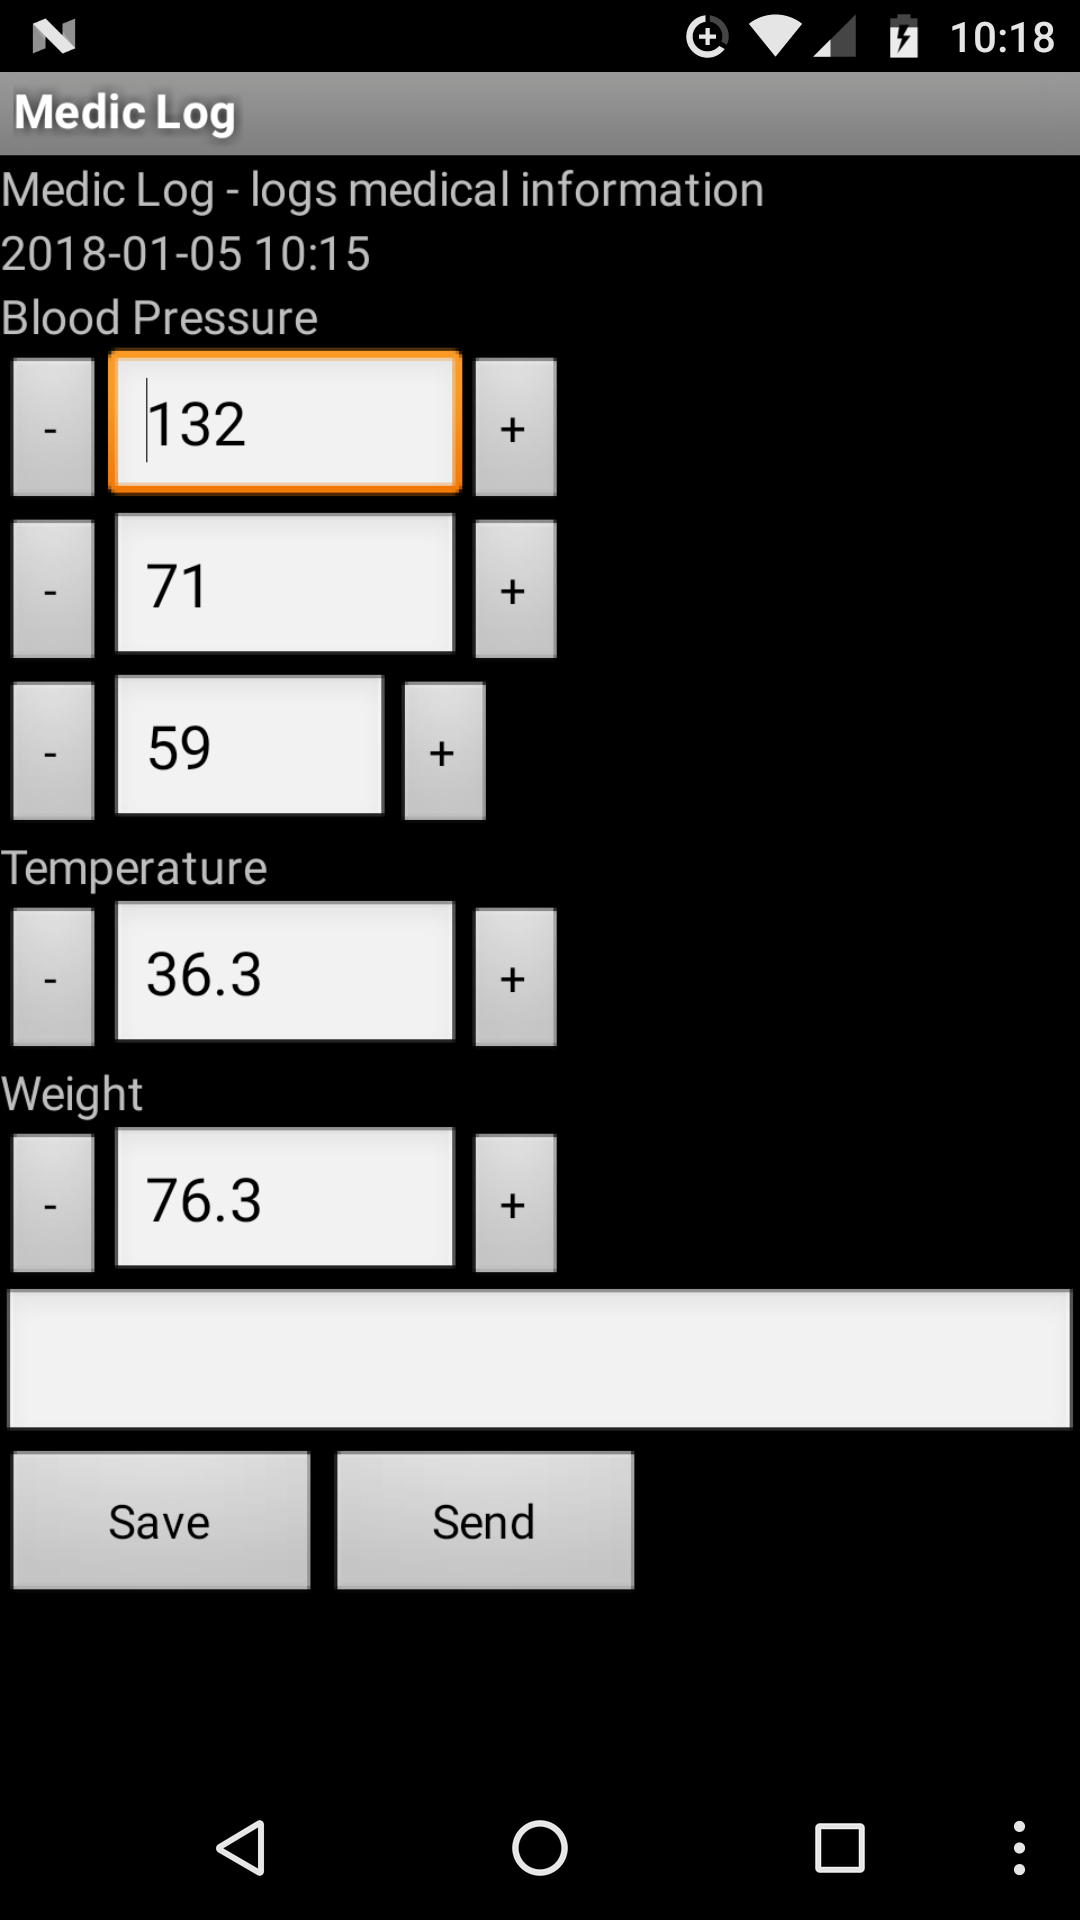
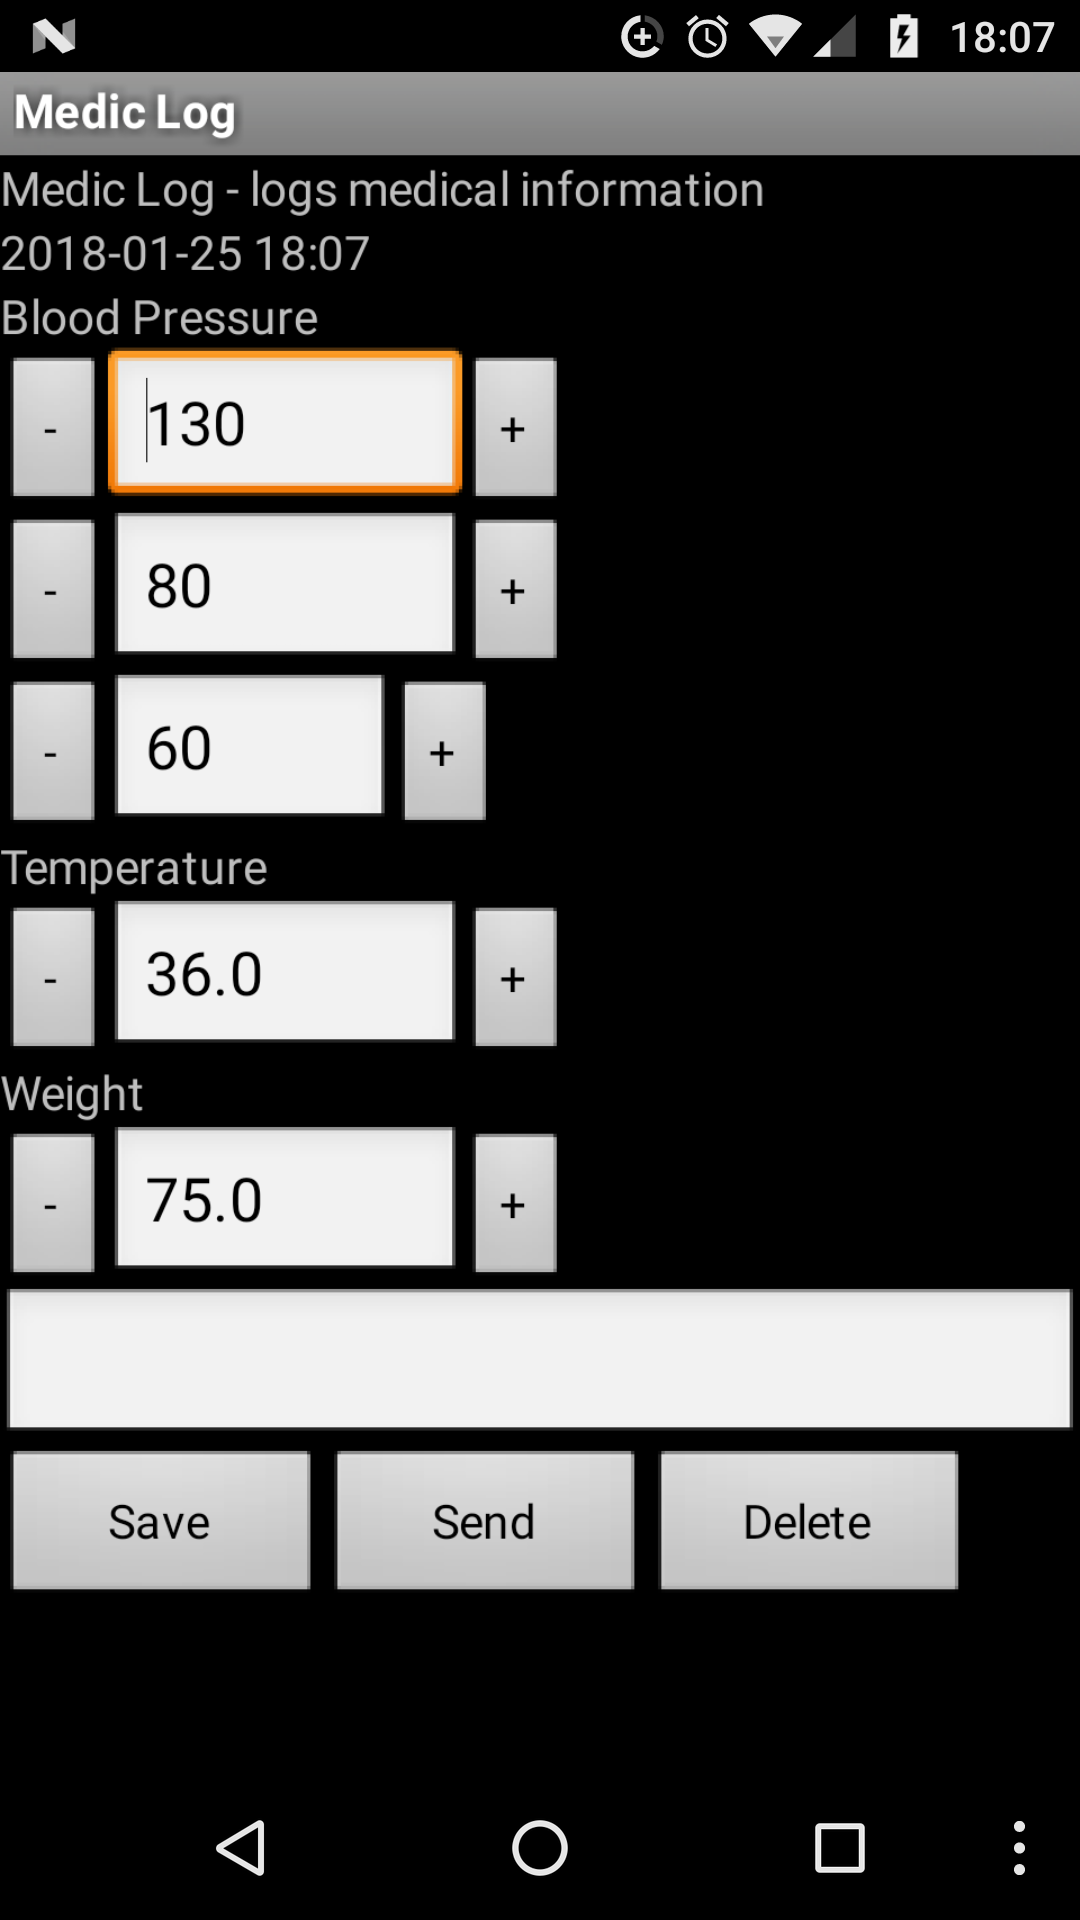
Delete button, small fixes

diff --git a/src/main/java/org/paladyn/mediclog/MedicLog.java b/src/main/java/org/paladyn/mediclog/MedicLog.java
@@ -11,6 +11,8 @@ import java.io.BufferedReader;
 import java.io.BufferedWriter;
 import java.text.SimpleDateFormat;
 import java.util.Calendar;
+import java.util.TimeZone;
+import java.util.zip.DataFormatException;
 
 import android.app.Activity;
 import android.os.Bundle;
@@ -31,6 +33,9 @@ import android.net.Uri;
 
 
 public class MedicLog extends Activity {
+
+   public int numRecsReadFromFile=0;
+   public int numRecsAppendedToFile=0;
 
     @Override
     public void onCreate(Bundle savedInstanceState) {
@@ -66,11 +71,24 @@ public class MedicLog extends Activity {
 	               }
 	     }
 
+	private void createLog(File file) {
+		try {
+                FileOutputStream os = new FileOutputStream(file);
+		BufferedWriter fbw = new BufferedWriter(new OutputStreamWriter(os));
+		fbw.write("MedicLog 1.0,Date time,Systolic,Diastolic,Heart rate,Temperature,Weight,Comment");
+		fbw.newLine();
+		fbw.flush();
+		fbw.close();
+                        if (BuildConfig.DEBUG) {
+	                   Log.d("mediclog","Log file created "+file.getName());
+	                   }
+		} catch (IOException ioe) {
+		       ioe.printStackTrace();
+	        }	       
+        }
 
 
-    @Override
-    public void onStart() {
-        super.onStart();
+	 private void readLog() throws DataFormatException {
 
 //   Read in existing log entries until end of file
         FileInputStream is;
@@ -82,24 +100,43 @@ public class MedicLog extends Activity {
 		try {
 		is = new FileInputStream(file);
 		reader = new BufferedReader(new InputStreamReader(is));
-		String line = reader.readLine();
+		String recordFormat;
 		String lastline = null;
+		// First line should be the header
+		String header = reader.readLine();
+		String[] hvals = header.split(",");
+                if ( ! hvals[0].equals("MedicLog 1.0")) {
+//			throw new DataFormatException("MedicLog -Unknown format type *"+hvals[0]+"*");
+			Log.d("mediclog","Unknown format type "+hvals[0]);
+		}
+		String line = reader.readLine();
 		while (line != null) {
 			lastline = line;
+			numRecsReadFromFile = numRecsReadFromFile + 1;
+                        if (BuildConfig.DEBUG) {
+	                   Log.d("mediclog","Read line "+line);
+	                   }
 			line = reader.readLine();
 	        }
 		if (lastline != null) {
 		String[] values = lastline.split(",");
+		recordFormat = values[0];
+		// recordFormat should always be 1 at the moment
+		if ( ! recordFormat.equals("1")) {
+
+			throw new DataFormatException("MedicLog Unknown record format *"+recordFormat+"*");
+//			Log.d("mediclog","Unknown record format *"+recordFormat+"*");
+		}
 	        EditText systolicText = (EditText) findViewById(R.id.systolicText);
-		systolicText.setText(values[1]);
+		systolicText.setText(values[2]);
 	        EditText diastolicText = (EditText) findViewById(R.id.diastolicText);
-		diastolicText.setText(values[2]);
+		diastolicText.setText(values[3]);
 	 	EditText heartrateText = (EditText) findViewById(R.id.heartrateText);
-		heartrateText.setText(values[3]);
+		heartrateText.setText(values[4]);
 	 	EditText tempText = (EditText) findViewById(R.id.tempText);
-		tempText.setText(values[4]);
+		tempText.setText(values[5]);
 	 	EditText weightText = (EditText) findViewById(R.id.weightText);
-		weightText.setText(values[5]);
+		weightText.setText(values[6]);
 		}
 	   } catch(IOException ioe) {
 		   ioe.printStackTrace();
@@ -107,22 +144,34 @@ public class MedicLog extends Activity {
 	   } else {
 		Toast.makeText(getBaseContext(), "File does not exist",
 				Toast.LENGTH_SHORT).show();
-		try {
-                FileOutputStream os = new FileOutputStream(file);
-//                OutputStreamWriter osw = new openFileOutput("mediclog.txt",MODE_PRIVATE);
-		BufferedWriter fbw = new BufferedWriter(new OutputStreamWriter(os));
-		fbw.close();
-		} catch (IOException ioe) {
-		       ioe.printStackTrace();
+                        if (BuildConfig.DEBUG) {
+	                   Log.d("mediclog","ReadLog -about to create file "+file.getName());
+	                   }
+		createLog(file);
 	        }	       
-            }
+            } 
+
+
+    @Override
+    public void onStart() {
+        super.onStart();
+
+	try {
+	  readLog();
+	}  catch (DataFormatException dfe) {
+		dfe.printStackTrace();
+	}
+
+	SharedPreferences sharedPref = getSharedPreferences("org.paladyn.mediclog_preferences",MODE_PRIVATE); 
 	
         TextView textView = (TextView) findViewById(R.id.text_view);
         textView.setText("Medic Log - logs medical information");
         Calendar calendar = Calendar.getInstance();
-// Note, time is in UTC at the moment. There should be a preferences item to say
-// if it should be in local time.	
+        
         SimpleDateFormat mdformat = new SimpleDateFormat("yyyy-MM-dd HH:mm");
+	   if ( ! sharedPref.getBoolean("timeUTC",true)) {
+		   mdformat.setTimeZone(TimeZone.getDefault());
+	   }
         String strDate = mdformat.format(calendar.getTime());
 	TextView dateView = (TextView) findViewById(R.id.date_view);
 	dateView.setText(strDate);
@@ -265,19 +314,23 @@ public class MedicLog extends Activity {
 	 String commentStr = commentText.getText().toString();
 
 	 try {
-		 FileOutputStream fOut =
-			 openFileOutput("mediclog.txt",MODE_PRIVATE|MODE_APPEND);
-//			 openFileOutput("mediclog.txt",MODE_PRIVATE);
+		 File file = new File(getFilesDir(),"mediclog.txt");
+                if ( ! file.exists()) {
+                        if (BuildConfig.DEBUG) {
+	                   Log.d("mediclog","Save -about to create file "+file.getName());
+	                   }
+	            	createLog(file);
+		}
+		 FileOutputStream fOut = new FileOutputStream(file,true);
 		OutputStreamWriter osw = new
 			OutputStreamWriter(fOut);
-//                OutputStreamWriter osw = utStreamWriter(
-//			  openFileOutput("mediclog.txt",MODE_PRIVATE|MODE_APPEND));
 		BufferedWriter fbw = new BufferedWriter(osw);
 
-		fbw.write(strDate+","+systolicStr+","+diastolicStr+","+heartrateStr+","+tempStr+","+weightStr+","+commentStr);
+		fbw.write("1,"+strDate+","+systolicStr+","+diastolicStr+","+heartrateStr+","+tempStr+","+weightStr+","+commentStr);
 		fbw.newLine();
 		fbw.flush();
 		fbw.close();
+		numRecsAppendedToFile = numRecsAppendedToFile + 1;
 
 		Toast.makeText(getBaseContext(), "File saved successfully!",
 				Toast.LENGTH_SHORT).show();
@@ -293,7 +346,7 @@ public class MedicLog extends Activity {
 	   SharedPreferences sharedPref = getSharedPreferences("org.paladyn.mediclog_preferences",MODE_PRIVATE); 
 
            final Intent emailIntent = new Intent(android.content.Intent.ACTION_SEND);
-	   emailIntent.setType("plain/text");
+	   emailIntent.setType("text/csv");
 	   emailIntent.putExtra(android.content.Intent.EXTRA_EMAIL, sharedPref.getString("sendTo","").split(","));
 	   emailIntent.putExtra(android.content.Intent.EXTRA_SUBJECT, sharedPref.getString("sendSubject","MedicLog"));
 
@@ -308,6 +361,16 @@ public class MedicLog extends Activity {
 
 
 	}
+
+     public void onClickDelete(View view) {
+              File dir = getFilesDir();
+	      File file = new File(dir, "mediclog.txt");
+	      boolean deleted = file.delete();
+                        if (BuildConfig.DEBUG) {
+	                   Log.d("mediclog","Log file deleted");
+	                   }
+	   }
+
 
 }
 

diff --git a/src/main/java/org/paladyn/mediclog/About.java b/src/main/java/org/paladyn/mediclog/About.java
@@ -29,7 +29,12 @@ public class About extends Activity {
 	TextView aboutTextView = (TextView) findViewById(R.id.about_text_view);
 
     Spanned aboutText = Html.fromHtml("<h1>MedicLog, Version " + versionName + "</h1>"
-	                + getString(R.string.about_text));
+	                + getString(R.string.about_text) + "<p>"
+			);
+// Following commented out until I can work out how to do it
+//			+ getString(R.string.records_read) + Integer.toString(MedicLog.numRecsReadFromFile) + "<br>"
+//			+ getString(R.string.records_appended) + String.valueOf(MedicLog.numRecsAppendedToFile) );
+
         aboutTextView.setText(aboutText);
 
 
